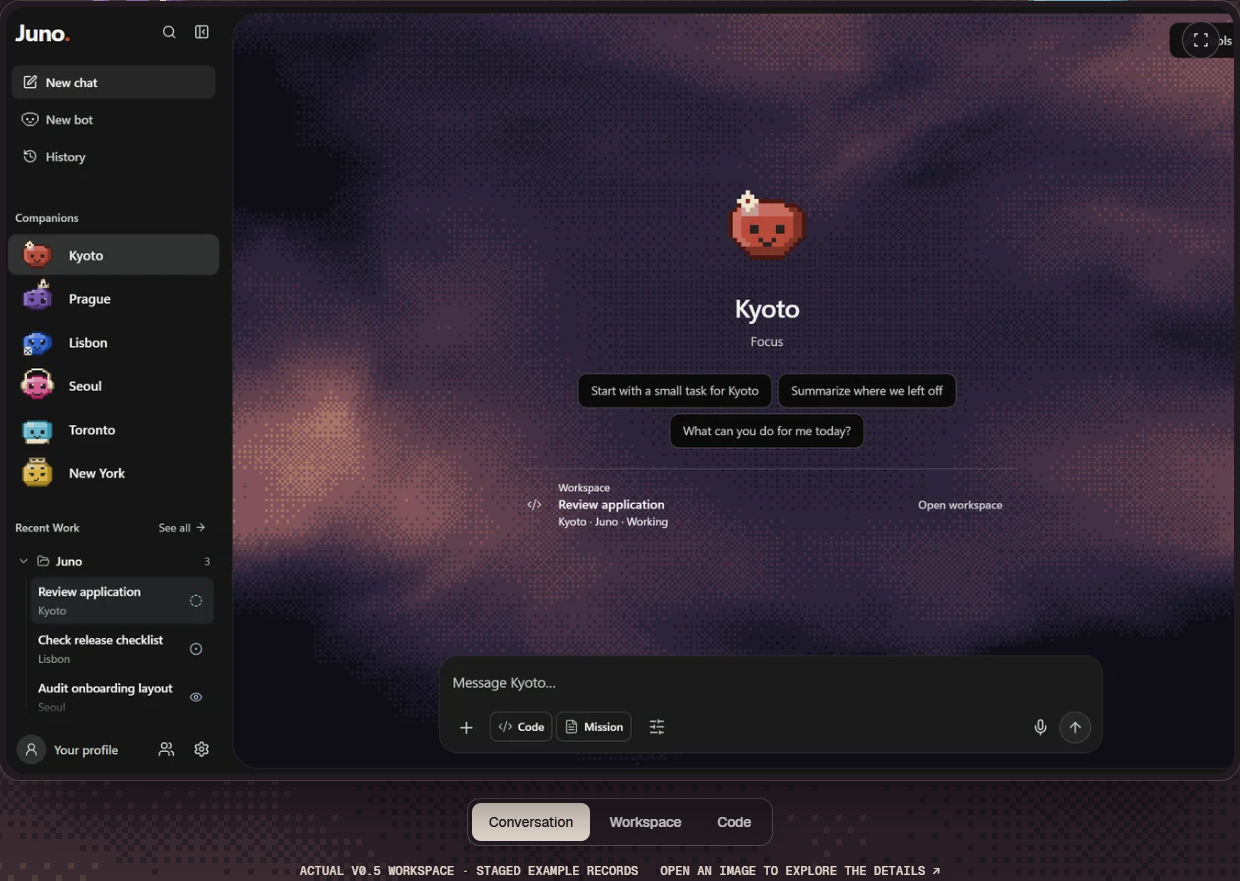
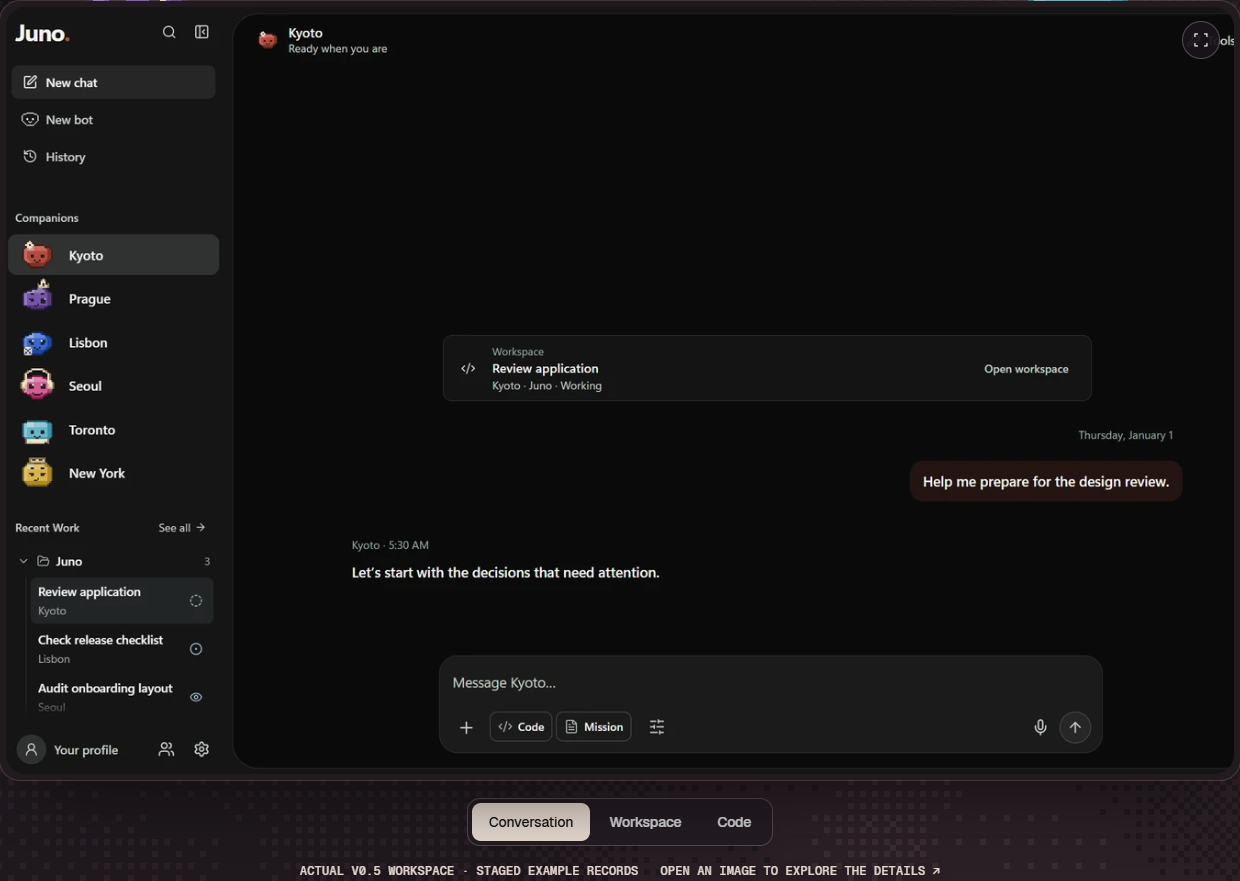
Replace legacy feature media with distinct current Juno states

diff --git a/index.html b/index.html
@@ -69,7 +69,7 @@
         <a class="hero-scroll-cue" href="#product">Explore the workspace <svg viewBox="0 0 20 20" fill="none" stroke="currentColor" stroke-width="1.5" aria-hidden="true"><path d="M10 3v14m-5-5 5 5 5-5" /></svg></a>
       </section>
 
-      <section class="work-story" id="workspace-story" data-hour="10"><div class="story-heading"><h2>One workspace.<br>Room to go further.</h2><p>Your conversation stays close. Code opens beside it. Recent Work keeps a path back to the project.</p></div><div class="workflow-views" role="tablist" aria-label="Explore the v0.5 workspace"><button type="button" role="tab" id="view-workspace" aria-controls="workflow-view" aria-selected="true" tabindex="0" data-workflow-view="workspace">Conversation</button><button type="button" role="tab" id="view-code" aria-controls="workflow-view" aria-selected="false" tabindex="-1" data-workflow-view="code">Code</button><button type="button" role="tab" id="view-mission" aria-controls="workflow-view" aria-selected="false" tabindex="-1" data-workflow-view="mission">Mission</button></div><figure class="v05-stage" id="workflow-view" role="tabpanel" aria-labelledby="view-workspace"><img src="/assets/v05-workspace.webp" width="1440" height="900" alt="Juno’s v0.5 workspace with six companions, Recent Work and Code and Mission in the composer" loading="lazy"><figcaption>Actual v0.5 interface · staged example workspace, not a live agent execution.</figcaption></figure><div class="story-sequence"><article><span>Conversation</span><h3>Start with a thought.</h3><p>A question, a plan, a rough draft. Six distinct companions share one familiar workspace.</p></article><article><span>Code</span><h3>Bring the project along.</h3><p>Inspect files, ask a read-only question, or authorize a change. The workspace and its permissions stay visible beside the conversation.</p></article><article><span>Mission</span><h3>Give the work a boundary.</h3><p>Plan a longer task, review its scope, and follow execution through its recorded result. Ariadne verification is shown where supported; an ordinary response is not a verified outcome.</p></article></div></section><section data-chapter="kyoto" data-hour="11.5" class="showcase" aria-labelledby="product-title">
+<section data-chapter="kyoto" data-hour="11.5" class="showcase" aria-labelledby="product-title">
         <div class="hero-product" id="product">
           <div class="sec-h">
             <h2 id="product-title" class="kin">Somewhere to think.<br />Somewhere to build.</h2>
@@ -84,8 +84,8 @@
                 <img data-orb="prague" class="peek peek-prague" src="/assets/prague.png" alt="" width="112" height="118" loading="lazy" />
                 <img data-orb="toronto" class="peek peek-toronto" src="/assets/toronto.png" alt="" width="124" height="96" loading="lazy" />
                 <div class="mac">
-                  <button class="product-shot hero-shot" data-image="v05-workspace" data-caption="Actual v0.5 renderer · staged workspace; no live execution" aria-label="Enlarge the conversation with Kyoto">
-                    <img src="/assets/v05-workspace-1440.webp" srcset="/assets/v05-workspace-960.webp 960w, /assets/v05-workspace-1440.webp 1440w" sizes="(max-width: 700px) 100vw, 1180px" alt="The v0.5 companion workspace with staged example records." width="1440" height="900" loading="lazy" /><span class="zoom-mark" aria-hidden="true"><svg viewBox="0 0 24 24" fill="none" stroke="currentColor" stroke-width="1.5"><path d="M8 4H4v4m12-4h4v4M4 16v4h4m12-4v4h-4" /></svg></span>
+                  <button class="product-shot hero-shot" data-image="current-conversation" data-caption="Actual v0.5 renderer · staged workspace; no live execution" aria-label="Enlarge the conversation with Kyoto">
+                    <img src="/assets/current-conversation-1440.webp" srcset="/assets/current-conversation-960.webp 960w, /assets/current-conversation-1440.webp 1440w" sizes="(max-width: 700px) 100vw, 1180px" alt="The v0.5 companion workspace with staged example records." width="960" height="564" loading="lazy" /><span class="zoom-mark" aria-hidden="true"><svg viewBox="0 0 24 24" fill="none" stroke="currentColor" stroke-width="1.5"><path d="M8 4H4v4m12-4h4v4M4 16v4h4m12-4v4h-4" /></svg></span>
                   </button>
                 </div>
               </div>
@@ -198,95 +198,14 @@
               useful things that come out of it.
             </p>
           </div>
-          <div class="capability-grid">
-            <article class="feature-panel computer-feature" id="feature-tools" data-host="kyoto" data-reveal>
-              <header><h3>Tools, on your terms.</h3><span class="feature-no" aria-hidden="true">01</span></header>
-              <p>Keep browser and desktop controls beside the conversation. Decide what each companion can access.</p>
-              <p class="feature-note">Configuration and permission required.</p><details class="feature-context"><summary>What am I giving access to?</summary><p>The real controls below show the available computer environments. Off is selected in this capture. Choose permissions inside Juno for each companion.</p></details>
-              <div class="feature-stage">
-                <img data-orb="kyoto" class="feature-host" src="/assets/kyoto.png" alt="" width="56" height="50" loading="lazy" />
-                <button class="product-shot" data-image="computer-control" data-caption="Earlier beta capture · Computer controls · Actual Juno interface; access is off" aria-label="Enlarge Juno’s Computer controls">
-                  <img src="/assets/computer-control-960.webp" alt="The real Juno computer-access choices, with Off selected." width="335" height="360" loading="lazy" /><span class="zoom-mark" aria-hidden="true"><svg viewBox="0 0 24 24" fill="none" stroke="currentColor" stroke-width="1.5"><path d="M8 4H4v4m12-4h4v4M4 16v4h4m12-4v4h-4" /></svg></span>
-                </button>
-              </div>
-            </article>
-            <article class="feature-panel research-feature" id="feature-research" data-host="prague" data-reveal style="--d: 70ms">
-              <header><h3>Give a question some room.</h3><span class="feature-no" aria-hidden="true">02</span></header>
-              <p>A focused pass or a deeper investigation. Set the scope of your research around the question you’re trying to answer.</p>
-              <p class="feature-note">Uses your configured provider and research tools.</p>
-<div class="research-guide" role="group" aria-label="Learn about research depth"><button data-depth="quick" aria-pressed="true">Quick</button><button data-depth="standard" aria-pressed="false">Standard</button><button data-depth="deep" aria-pressed="false">Deep</button></div><p id="research-explanation" class="research-explanation" aria-live="polite">A focused pass with a few sources.</p><small class="preview-disclosure">An interface guide. This page does not run research.</small>
-              <div class="feature-stage">
-                <img data-orb="prague" class="feature-host" src="/assets/prague.png" alt="" width="56" height="59" loading="lazy" />
-                <button class="product-shot" data-image="research" data-caption="Earlier beta capture · Research depth options · Real Juno controls; no research run is depicted" aria-label="Enlarge research options">
-                  <img src="/assets/research-960.webp" alt="The real Quick, Standard and Deep research choices in Juno." width="500" height="310" loading="lazy" /><span class="zoom-mark" aria-hidden="true"><svg viewBox="0 0 24 24" fill="none" stroke="currentColor" stroke-width="1.5"><path d="M8 4H4v4m12-4h4v4M4 16v4h4m12-4v4h-4" /></svg></span>
-                </button>
-              </div>
-            </article>
-            <article class="feature-panel routine-feature" id="feature-routines" data-host="toronto" data-reveal style="--d: 140ms">
-              <header><h3>Put recurring work on a schedule.</h3><span class="feature-no" aria-hidden="true">03</span></header>
-              <p>Set up a routine for the work that comes around again. Keep its schedule and controls close to your companion.</p>
-              <p class="feature-note">Runs while Juno and its required tools are available.</p><details class="feature-context"><summary>Explore the example schedule</summary><p>The captured Saturday reading hour routine is paused. A schedule needs Juno, its provider, and any required tools to be available.</p></details>
-              <div class="feature-stage">
-                <img data-orb="toronto" class="feature-host" src="/assets/toronto.png" alt="" width="56" height="44" loading="lazy" />
-                <button class="product-shot" data-image="routines" data-caption="Earlier beta capture · Routines · A paused example schedule in the real Juno app" aria-label="Enlarge routines settings">
-                  <img src="/assets/routines-960.webp" alt="Juno’s real Routines settings with the Saturday reading hour example paused." width="860" height="690" loading="lazy" /><span class="zoom-mark" aria-hidden="true"><svg viewBox="0 0 24 24" fill="none" stroke="currentColor" stroke-width="1.5"><path d="M8 4H4v4m12-4h4v4M4 16v4h4m12-4v4h-4" /></svg></span>
-                </button>
-              </div>
-            </article>
-            <article class="feature-panel results-feature" id="feature-results" data-host="lisbon" data-reveal style="--d: 210ms">
-              <header><h3>Keep files and results together.</h3><span class="feature-no" aria-hidden="true">04</span></header>
-              <p>Come back to what your companion creates. The Library brings saved files and results together beside the conversation.</p>
-              <p class="feature-note">Saved results stay close to the conversation.</p><p class="library-state">Your work has a place to come back to.</p><p class="preview-disclosure">The actual Library below is shown before any results are saved.</p>
-              <div class="feature-stage">
-                <img data-orb="lisbon" class="feature-host" src="/assets/lisbon.png" alt="" width="56" height="44" loading="lazy" />
-                <button class="product-shot" data-image="library" data-caption="Earlier beta capture · Results Library · Real Juno interface, shown before any results are saved" aria-label="Enlarge results library">
-                  <img src="/assets/library-960.webp" alt="Juno’s real Results panel, with file-type filters and its empty state." width="376" height="300" loading="lazy" /><span class="zoom-mark" aria-hidden="true"><svg viewBox="0 0 24 24" fill="none" stroke="currentColor" stroke-width="1.5"><path d="M8 4H4v4m12-4h4v4M4 16v4h4m12-4v4h-4" /></svg></span>
-                </button>
-              </div>
-            </article>
-          </div>
+          <div class="capability-grid"><article class="feature-panel" id="feature-tools" data-host="kyoto" data-reveal><header><h3>Keep the useful controls close.</h3></header><p>Search, Away mode and real-time voice live in the composer menu. Code and Mission stay one click away.</p><p class="feature-note">Availability depends on your configured provider and tools.</p><div class="feature-stage"><img data-orb="kyoto" class="feature-host" src="/assets/kyoto.png" alt="" width="56" height="50" loading="lazy"><button class="product-shot" data-image="current-controls" data-caption="Current Juno renderer · staged example records; no live execution" aria-label="Enlarge Keep the useful controls close"><img src="/assets/current-controls-960.webp" srcset="/assets/current-controls-960.webp 960w, /assets/current-controls-1440.webp 1440w" sizes="(max-width:760px) 100vw, 600px" alt="Juno’s current composer with its Search, Away mode and voice menu open." width="960" height="305" loading="lazy"><span class="zoom-mark" aria-hidden="true"><svg viewBox="0 0 24 24" fill="none" stroke="currentColor" stroke-width="1.5"><path d="M8 4H4v4m12-4h4v4M4 16v4h4m12-4v4h-4"/></svg></span></button></div></article>
+<article class="feature-panel" id="feature-research" data-host="prague" data-reveal><header><h3>Give the work a boundary.</h3></header><p>Open a Mission plan beside the conversation. Review the objective, project and permissions before starting.</p><p class="feature-note">A planning view; no execution is shown.</p><div class="feature-stage"><img data-orb="prague" class="feature-host" src="/assets/prague.png" alt="" width="56" height="50" loading="lazy"><button class="product-shot" data-image="current-planning" data-caption="Current Juno renderer · staged example records; no live execution" aria-label="Enlarge Give the work a boundary"><img src="/assets/current-planning-960.webp" srcset="/assets/current-planning-960.webp 960w, /assets/current-planning-1440.webp 1440w" sizes="(max-width:760px) 100vw, 600px" alt="The current Mission planner open beside a Juno conversation." width="960" height="716" loading="lazy"><span class="zoom-mark" aria-hidden="true"><svg viewBox="0 0 24 24" fill="none" stroke="currentColor" stroke-width="1.5"><path d="M8 4H4v4m12-4h4v4M4 16v4h4m12-4v4h-4"/></svg></span></button></div></article>
+<article class="feature-panel" id="feature-routines" data-host="toronto" data-reveal><header><h3>Find the thread again.</h3></header><p>Previous Missions keeps recorded work in reach. Reopening a record does not restart the task.</p><p class="feature-note">Illustrative history in the actual current interface.</p><div class="feature-stage"><img data-orb="toronto" class="feature-host" src="/assets/toronto.png" alt="" width="56" height="50" loading="lazy"><button class="product-shot" data-image="current-history" data-caption="Current Juno renderer · staged example records; no live execution" aria-label="Enlarge Find the thread again"><img src="/assets/current-history-960.webp" srcset="/assets/current-history-960.webp 960w, /assets/current-history-1440.webp 1440w" sizes="(max-width:760px) 100vw, 600px" alt="Juno’s current Previous Missions list showing two staged records." width="960" height="271" loading="lazy"><span class="zoom-mark" aria-hidden="true"><svg viewBox="0 0 24 24" fill="none" stroke="currentColor" stroke-width="1.5"><path d="M8 4H4v4m12-4h4v4M4 16v4h4m12-4v4h-4"/></svg></span></button></div></article>
+<article class="feature-panel" id="feature-results" data-host="lisbon" data-reveal><span id="code"></span><header><h3>Make the call before Code runs.</h3></header><p>Code keeps permission requests beside the project conversation. Review the requested action before allowing it.</p><p class="feature-note">A staged permission request; no command is executed.</p><div class="feature-stage"><img data-orb="lisbon" class="feature-host" src="/assets/lisbon.png" alt="" width="56" height="50" loading="lazy"><button class="product-shot" data-image="current-approval" data-caption="Current Juno renderer · staged example records; no live execution" aria-label="Enlarge Make the call before Code runs"><img src="/assets/current-approval-960.webp" srcset="/assets/current-approval-960.webp 960w, /assets/current-approval-1440.webp 1440w" sizes="(max-width:760px) 100vw, 600px" alt="Juno Code with a pending permission request and its approval controls." width="960" height="462" loading="lazy"><span class="zoom-mark" aria-hidden="true"><svg viewBox="0 0 24 24" fill="none" stroke="currentColor" stroke-width="1.5"><path d="M8 4H4v4m12-4h4v4M4 16v4h4m12-4v4h-4"/></svg></span></button></div></article></div>
         </div>
       </section>
 
-      <section data-chapter="seoul" data-hour="23.6" class="code-section" id="code" aria-labelledby="code-title">
-        <div class="sec-h"><p class="media-qualification">Supporting controls shown in earlier-beta captures; the v0.5 workspace is demonstrated above.</p>
-          <h2 id="code-title" class="kin">Think it through.<br />Then build it.</h2>
-          <p class="lede" data-reveal>
-            Bring your companion into Code. Keep the project, conversation,
-            files, and review in one workspace.
-          </p>
-        </div>
-        <div class="tour">
-          <div class="code-frame" data-reveal="frame">
-            <img data-orb="seoul" class="peek peek-seoul" src="/assets/seoul.png" alt="Seoul, Juno’s prototype-loving companion" width="124" height="112" loading="lazy" />
-            <div class="mac">
-              <button class="product-shot code-shot" data-image="v05-code" data-caption="Actual v0.5 Code renderer · staged example project" aria-label="Enlarge the Juno Code workspace">
-                <img src="/assets/v05-code-1440.webp" srcset="/assets/v05-code-960.webp 960w, /assets/v05-code-1440.webp 1440w" sizes="(max-width: 700px) 100vw, 1180px" alt="Juno v0.5 Code with a staged example project and its adjacent tool panel." width="1440" height="960" loading="lazy" /><span class="zoom-mark" aria-hidden="true"><svg viewBox="0 0 24 24" fill="none" stroke="currentColor" stroke-width="1.5"><path d="M8 4H4v4m12-4h4v4M4 16v4h4m12-4v4h-4" /></svg></span>
-              </button>
-              <div class="mac-caps">
-                <div class="code-details">
-                  <div>
-                    <h3>Keep the context</h3>
-                    <p>Talk through the change with your companion alongside the project.</p>
-                  </div>
-                  <div>
-                    <h3>See the work</h3>
-                    <p>Move between files, changes, and the terminal as the task needs.</p>
-                  </div>
-                  <div>
-                    <h3>Make the call</h3>
-                    <p>Review proposed changes and choose what to apply.</p>
-                  </div>
-                </div>
-                <p class="code-capture-note">
-                  Local file editing shown. AI code work requires a configured
-                  provider.
-                </p>
-              </div>
-            </div>
-          </div>
-        </div>
-      </section>
+
 
       <section data-chapter="new-york" data-hour="24.6" class="team-section split" aria-labelledby="team-title">
         <div class="split-in">

diff --git a/src/site.ts b/src/site.ts
@@ -93,16 +93,6 @@ catch (error) {
     state(container, error instanceof Error ? error.message : 'Published releases are temporarily unavailable.', true);
 } }
 void render();
-const views = [...document.querySelectorAll<HTMLButtonElement>('[data-workflow-view]')];
-for (const button of views) {
-    button.addEventListener('click', () => { const key = button.dataset.workflowView!; const panel = document.querySelector<HTMLElement>('#workflow-view')!; const image = panel.querySelector('img')!; image.src = '/assets/v05-' + key + '.webp'; image.alt = key === 'mission' ? 'Juno v0.5 Mission planner, showing task scope controls' : 'Juno v0.5 ' + key + ' workspace'; panel.setAttribute('aria-labelledby', button.id); views.forEach(b => { const active = b === button; b.setAttribute('aria-selected', String(active)); b.tabIndex = active ? 0 : -1; }); panel.querySelector('figcaption')!.textContent = 'Actual v0.5 interface · staged example records, not a live agent execution.'; });
-    button.addEventListener('keydown', e => { const i = views.indexOf(button); const n = e.key === 'ArrowRight' ? views[(i + 1) % views.length] : e.key === 'ArrowLeft' ? views[(i + views.length - 1) % views.length] : e.key === 'Home' ? views[0] : e.key === 'End' ? views.at(-1) : undefined; if (n) {
-        e.preventDefault();
-        n.focus();
-        n.click();
-    } });
-}
-
 const supportCopy=document.querySelector<HTMLButtonElement>('#support-copy');
 if(supportCopy){supportCopy.hidden=false;supportCopy.addEventListener('click',async()=>{const status=document.querySelector<HTMLElement>('#support-copy-status')!;const address=document.querySelector<HTMLElement>('#support-address')!;try{await navigator.clipboard.writeText(address.textContent!.trim());status.textContent='Email address copied.';}catch{const range=document.createRange();range.selectNodeContents(address);const selection=window.getSelection();selection?.removeAllRanges();selection?.addRange(range);status.textContent='Copy wasn’t available. The email address is selected so you can copy it manually.';}});}
 

diff --git a/src/main.ts b/src/main.ts
@@ -141,7 +141,7 @@ const previewScenes: Record<
   { image: string; alt: string; caption: string }
 > = {
   conversation: {
-    image: "v05-workspace",
+    image: "current-conversation",
     alt: "The v0.5 workspace with Kyoto and staged example records.",
     caption: "Actual v0.5 workspace · staged example records",
   },
@@ -799,10 +799,10 @@ for (const button of document.querySelectorAll<HTMLButtonElement>('[data-depth]'
 });
 const companionPaths: Record<string, [string, string, string]> = {
  kyoto: ['#product', 'Explore Kyoto’s workspace', 'Explore Kyoto’s conversation and project workspace.'],
- prague: ['#feature-research', 'Explore research controls', 'Give a question room for the skeptical perspective you choose.'],
- lisbon: ['#feature-results', 'Explore the Library', 'Keep the writing and files you create close to the conversation.'],
+ prague: ['#feature-research', 'Explore Mission planning', 'Give a task a clear objective and scope.'],
+ lisbon: ['#feature-results', 'Explore Code permissions', 'Review the requested action before allowing it.'],
  seoul: ['#code', 'Explore the Code workspace', 'Bring a builder’s perspective into your project workspace.'],
- toronto: ['#feature-routines', 'Explore routine settings', 'Find the controls for work you want to return to.'],
+ toronto: ['#feature-routines', 'Explore recorded Missions', 'Find the work you want to return to.'],
  'new-york': ['#team-title', 'Explore Teams', 'Give a companion a clear role in a shared direction.'],
 };
 for (const button of companionButtons) button.addEventListener('click', () => {

diff --git a/src/refresh.css b/src/refresh.css
@@ -74,3 +74,7 @@ body{background:#211b21}
 body:not([data-page]) .footer-mark{margin-top:48px}
 .release-more{margin-top:32px}
 @media(max-width:600px){.release-more{margin-top:24px}}
+
+.desktop-nav a::after{display:none}
+.feature-panel .product-shot{aspect-ratio:auto}
+.feature-panel .product-shot>img{height:auto;object-fit:contain}

diff --git a/WEBSITE-V05-HANDOFF.md b/WEBSITE-V05-HANDOFF.md
@@ -56,3 +56,7 @@ The explicit approved:false manifest flag also blocks legacy fallback for that v
 ## Visual refinement follow-up
 
 Removed the obsolete workflow video and hero companion bar. Conversation, project workspace (Files panel), and Code now use distinct current-renderer images with working full-size dialogs. Pixel luminance and opacity are reduced for reading contrast. The home footer matches the solid Updates footer, with a static companion composition and no background pattern. Release pagination has 32px separation from the final divider (24px on small screens). Headless checks cover 1440/1280/390/320px, all three images/dialogs, accessibility and no overflow; evidence/visual-polish contains focused screenshots and receipt. Existing refresh regression suite and all 12 data tests pass.
+
+
+## Distinct current-renderer media
+Replaced the four earlier-beta feature screenshots with fresh current renderer captures: composer options, Mission planner, recorded Mission history, and Code approval. Presentation crops focus the controls, while enlargement preserves the full untouched capture. New populated conversation image replaces the empty Conversation view. Removed the duplicate opening workflow gallery and repeated standalone Code gallery; the main three-view product tour remains. Navbar selection dot removed. Captures use an isolated hidden Electron window and synthetic fixture records; no installed profile, provider execution, release artifact or desktop source edits. Source captures and provenance: source-assets/v05-next/.
